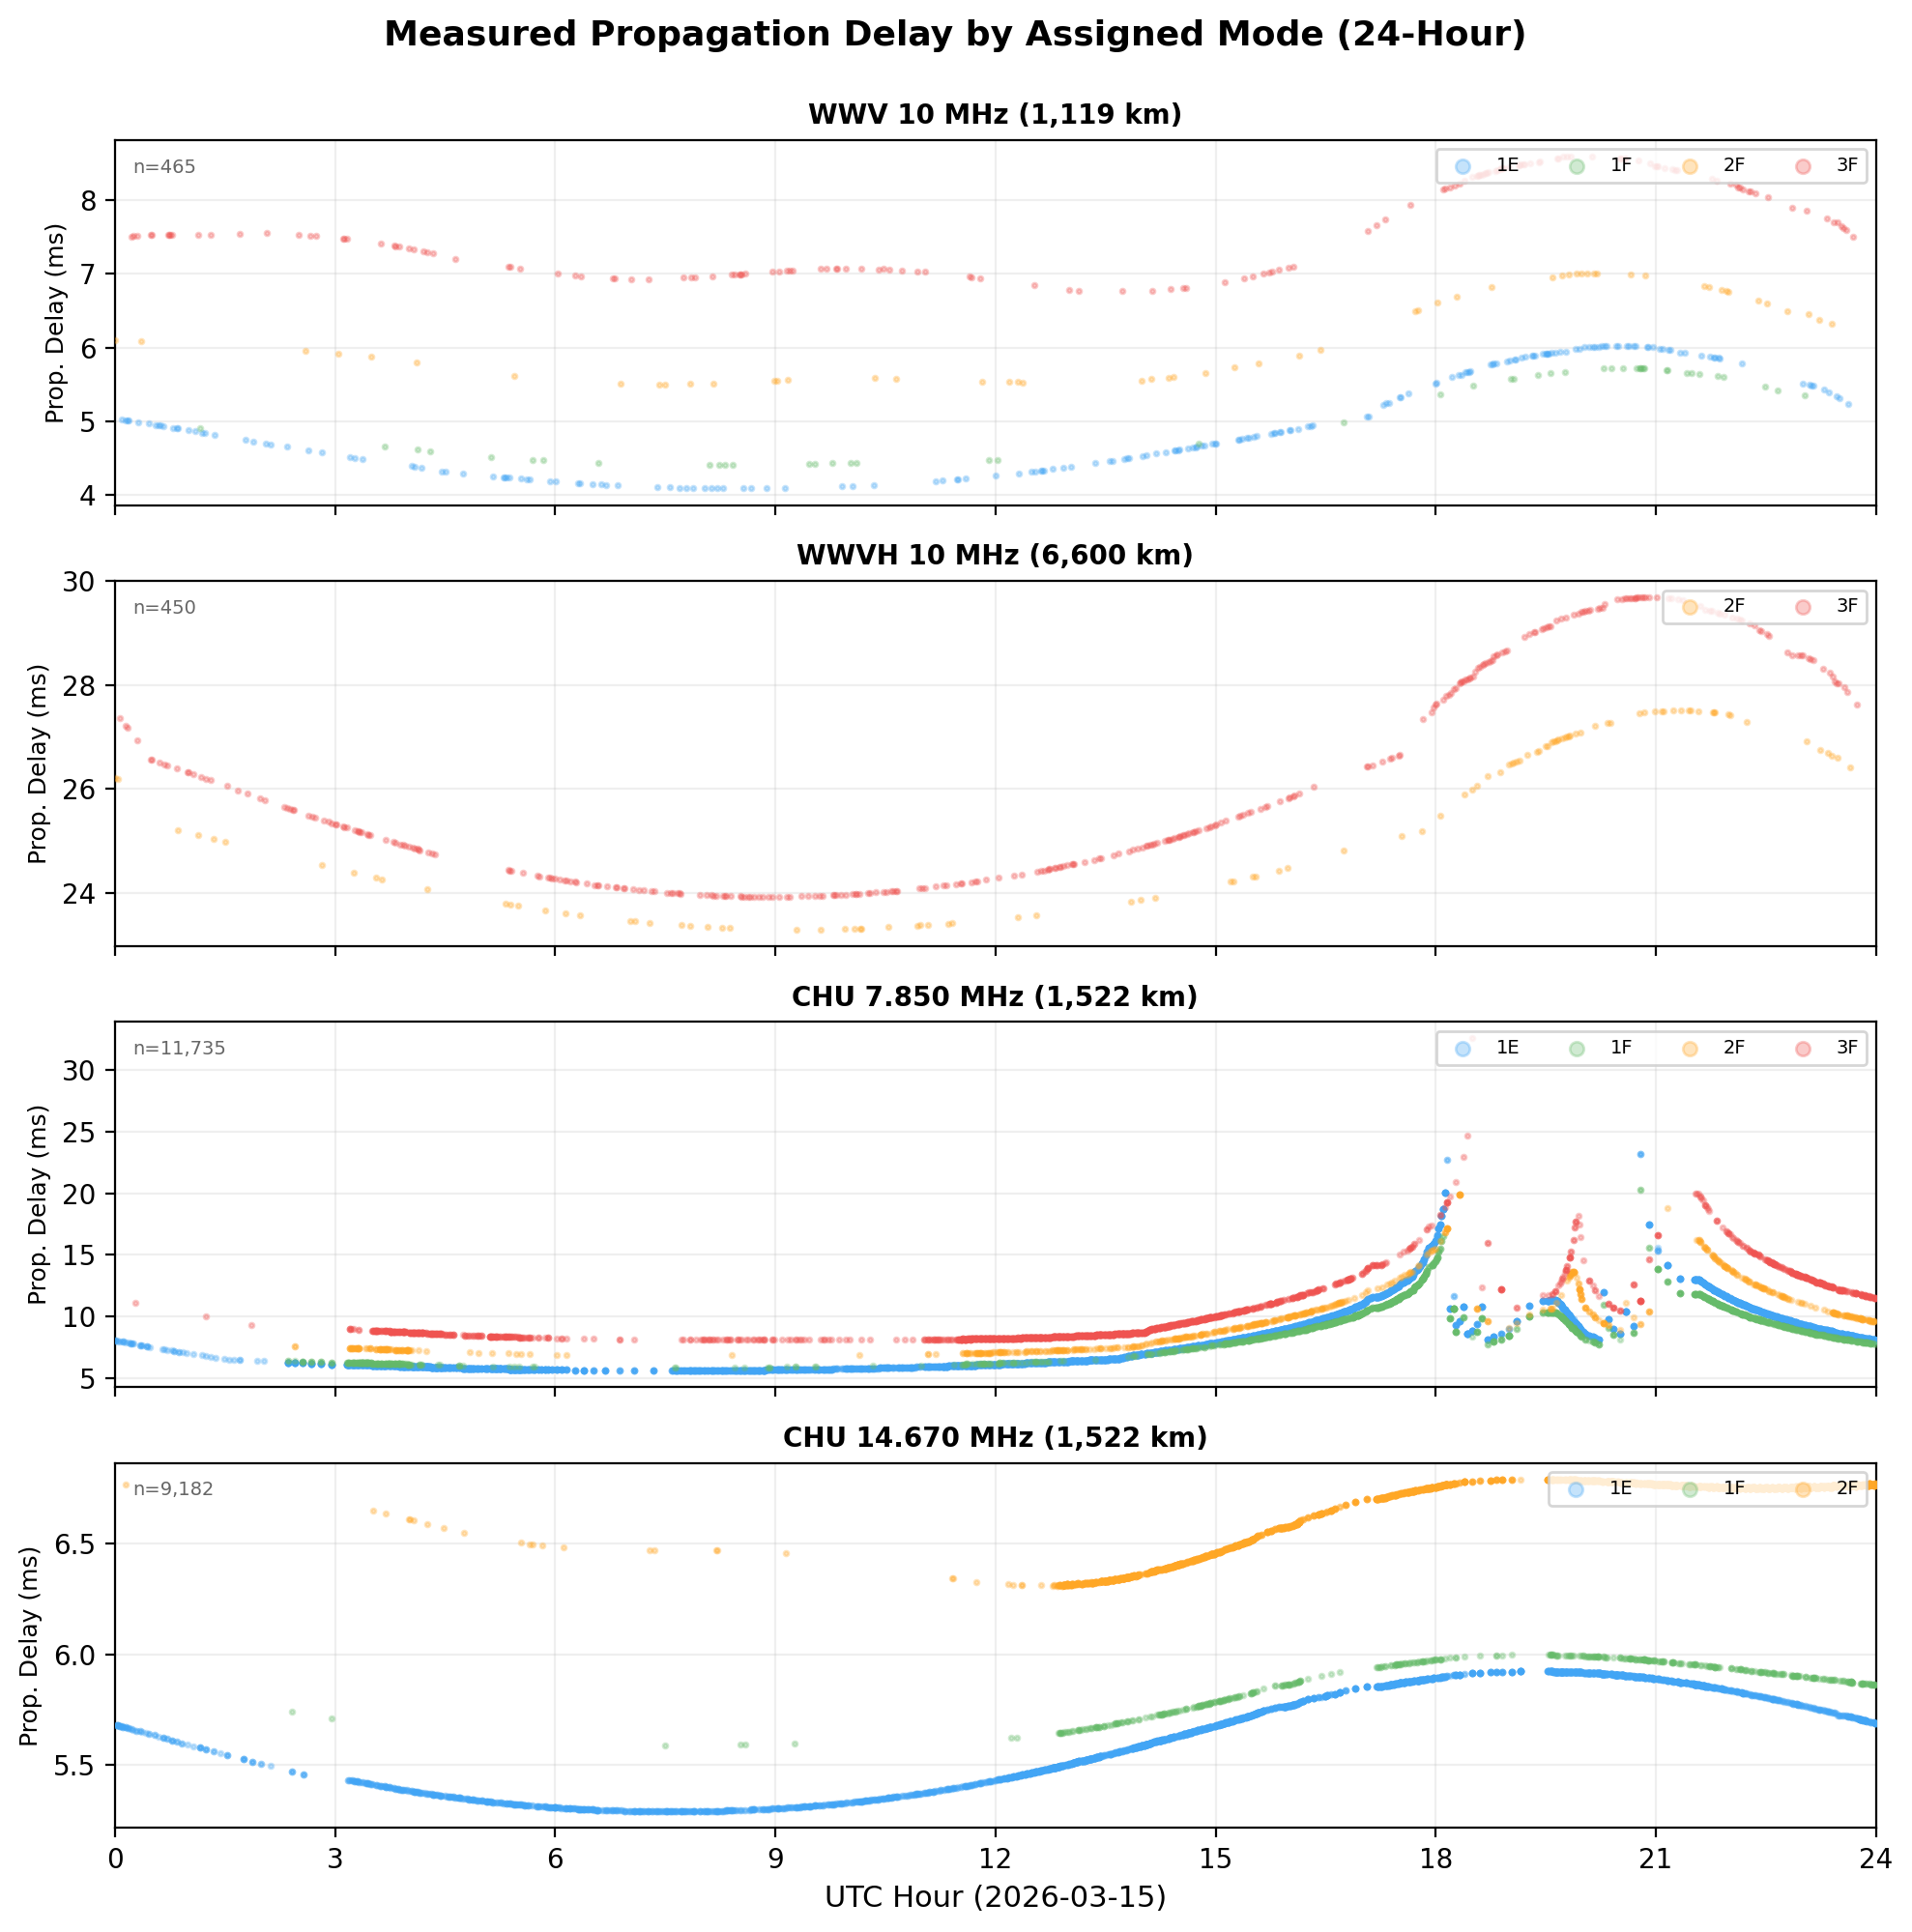
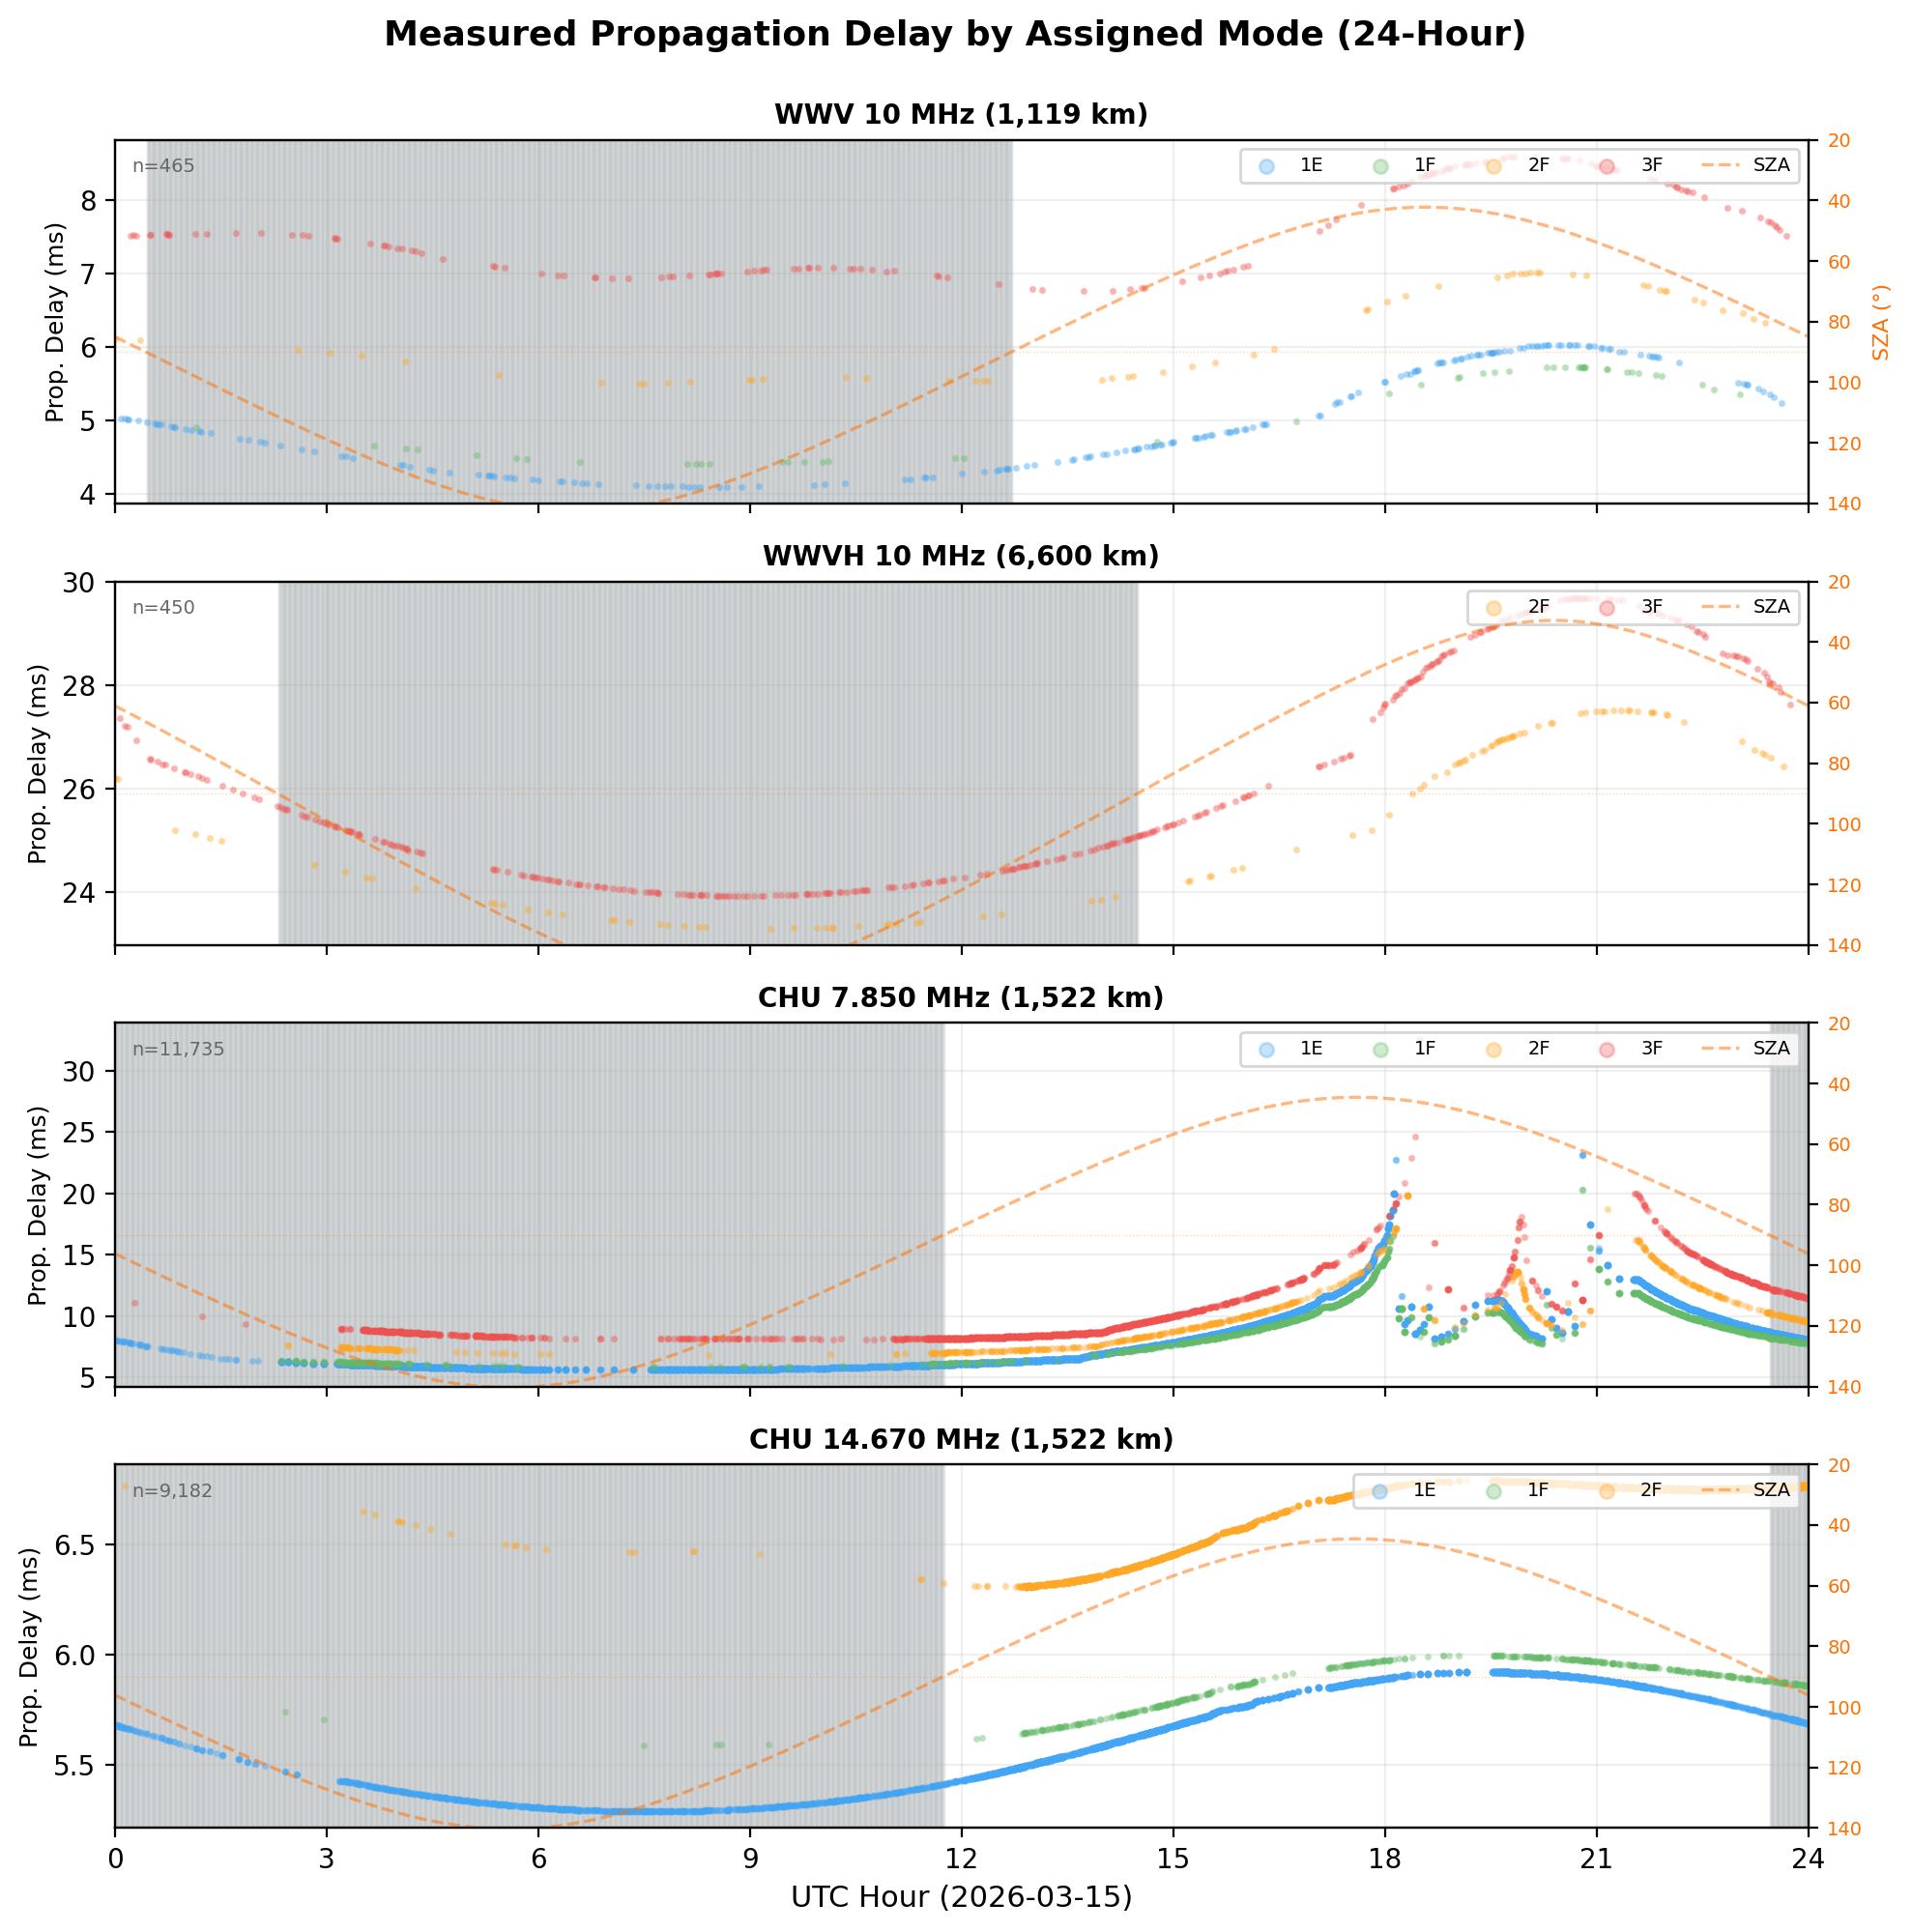
Fig 8: add per-path solar zenith angle overlays + night shading
Each panel gets SZA computed at the TX→RX path midpoint:
- WWV midpoint ~99°W, WWVH ~126°W, CHU ~84°W
Night regions shaded, SZA curve on inverted twin axis.
Visually correlates mode transitions with solar illumination.

diff --git a/docs/figures/generate_qex_figures.py b/docs/figures/generate_qex_figures.py
@@ -1019,6 +1019,18 @@ def generate_fig8():
 
     date_label = f'{TARGET_DATE[:4]}-{TARGET_DATE[4:6]}-{TARGET_DATE[6:]}'
 
+    # Receiver coordinates
+    rx_lat, rx_lon = 38.918461, -92.127974
+    # TX coordinates and path midpoints for SZA
+    tx_coords = {
+        'WWV':  (40.6773, -105.0421),
+        'WWVH': (21.9886, -159.7601),
+        'CHU':  (45.2958, -75.7533),
+    }
+    doy = datetime(int(TARGET_DATE[:4]), int(TARGET_DATE[4:6]),
+                   int(TARGET_DATE[6:])).timetuple().tm_yday
+    sza_hours = np.linspace(0, 24, 1441)
+
     panels = [
         ('SHARED_10000', 'WWV', 10.0, 'WWV 10 MHz (1,119 km)'),
         ('SHARED_10000', 'WWVH', 10.0, 'WWVH 10 MHz (6,600 km)'),
@@ -1106,7 +1118,37 @@ def generate_fig8():
         ax.set_title(title, fontsize=10, fontweight='bold')
         ax.set_ylabel('Prop. Delay (ms)', fontsize=9)
         ax.grid(True, alpha=0.2)
-        ax.legend(fontsize=7, loc='upper right', ncol=5, markerscale=3)
+
+        # Solar zenith angle overlay on twin axis
+        tx = tx_coords[target_station]
+        mid_lat = (tx[0] + rx_lat) / 2.0
+        mid_lon = (tx[1] + rx_lon) / 2.0
+        sza = _solar_zenith_angle(mid_lat, mid_lon, sza_hours, doy)
+
+        axr = ax.twinx()
+        axr.plot(sza_hours, sza, color='#FF6F00', linewidth=1.2, alpha=0.5,
+                 linestyle='--', zorder=1)
+        axr.axhline(90, color='#FF6F00', linewidth=0.5, alpha=0.3, linestyle=':')
+        axr.set_ylim(140, 20)  # inverted: noon (low SZA) at top
+        if idx == 0:
+            axr.set_ylabel('SZA (°)', fontsize=8, color='#FF6F00')
+        axr.tick_params(axis='y', labelcolor='#FF6F00', labelsize=7)
+
+        # Shade night regions (SZA > 90°)
+        night = sza > 90
+        for j in range(len(sza_hours) - 1):
+            if night[j]:
+                ax.axvspan(sza_hours[j], sza_hours[j+1], color='#263238',
+                           alpha=0.06, zorder=0)
+
+        # Legend combines scatter + SZA
+        from matplotlib.lines import Line2D
+        sza_handle = Line2D([0], [0], color='#FF6F00', linewidth=1.2,
+                            linestyle='--', alpha=0.5, label='SZA')
+        handles, labels = ax.get_legend_handles_labels()
+        ax.legend(handles=handles + [sza_handle],
+                  labels=labels + ['SZA'],
+                  fontsize=7, loc='upper right', ncol=6, markerscale=3)
 
         # Annotate tick count
         ax.text(0.01, 0.95, f'n={mask.sum():,}', fontsize=7,